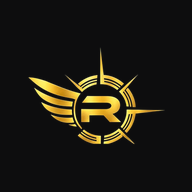
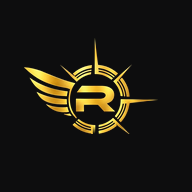
PWA ikonları: R amblemi merkeze hizalandı, maskable güvenli alana sığdırıldı; önbellek sürümü v4

Changed region(s): [[0.125, 0.1875, 0.8438, 0.75]]

diff --git a/frontend/public/sw.js b/frontend/public/sw.js
@@ -4,7 +4,7 @@
  * - /api/ ve diğer her şey: hiç dokunulmaz (önbelleğe alınmaz).
  * - Güncelleme: yeni sürüm bekler, kullanıcı onaylayınca (SKIP_WAITING) etkinleşir.
  */
-const SURUM = "v3";
+const SURUM = "v4";
 const ONBELLEK = `rota-statik-${SURUM}`;
 const OFFLINE_SAYFA = "/offline.html";
 const ON_YUKLEME = [OFFLINE_SAYFA, "/icon-192.png", "/manifest.webmanifest"];
